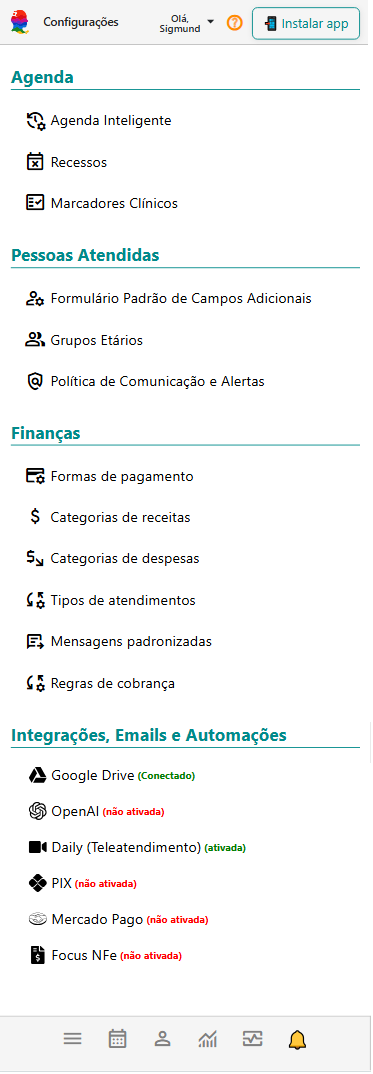
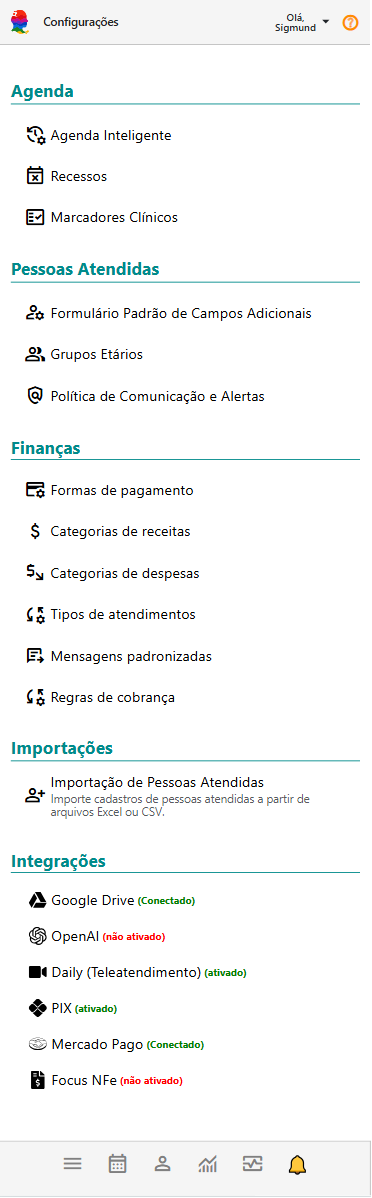
nilson

diff --git a/docs/05_funcionalidades/01-configuracoes/40_importacoes/01_pessoasatendidas.md b/docs/05_funcionalidades/01-configuracoes/40_importacoes/01_pessoasatendidas.md
@@ -1,0 +1,146 @@
+---
+sidebar_position: 1
+---
+
+# Importação de Pessoas Atendidas
+
+A **Importação de Pessoas Atendidas** permite cadastrar no eConsult várias pessoas de uma só vez utilizando informações existentes em uma planilha **Excel ou CSV**.
+
+O recurso é especialmente útil para quem está começando a utilizar o eConsult e já possui seus cadastros organizados em planilhas ou exportados de outro sistema.
+
+Não é necessário que a planilha utilize exatamente os mesmos nomes de campos do eConsult. Durante o processamento, o sistema analisa a estrutura encontrada e procura identificar as informações correspondentes aos campos utilizados no cadastro de pessoas atendidas.
+
+## 1. Selecione o arquivo
+
+Na tela de importação, clique no campo **Arquivo Excel ou CSV** e selecione o arquivo que contém os cadastros que deseja importar.
+
+São aceitos os formatos:
+
+* `.xlsx`
+* `.xls`
+* `.csv`
+
+Após selecionar o arquivo, o eConsult fará uma primeira leitura da planilha e apresentará informações como o nome do arquivo, planilha utilizada, quantidade de registros encontrados e quantidade de colunas identificadas.
+
+![Selecione o arquivo](../../../../static/img/prints/configuracoes/001.png)
+
+### Qual planilha será utilizada?
+
+Caso o arquivo Excel possua várias abas, a importação utiliza a **primeira planilha do arquivo**.
+
+Por isso, antes de iniciar, verifique se os dados que deseja importar estão na primeira aba.
+
+## 2. Confira a prévia dos dados
+
+Depois da leitura do arquivo, o eConsult apresenta uma **prévia dos primeiros registros encontrados**.
+
+Essa etapa permite verificar se a planilha foi lida corretamente antes de continuar.
+
+Os nomes das colunas são apresentados conforme encontrados no arquivo original. Por exemplo, sua planilha pode utilizar nomes como:
+
+`Cliente`, `Nome do Paciente`, `WhatsApp`, `Nascimento`, `CPF`, `Endereço`, entre outros.
+
+Não é necessário renomear essas colunas para os nomes utilizados internamente pelo eConsult.
+
+![Confira a prévia dos dados](../../../../static/img/prints/configuracoes/002.png)
+
+Se o arquivo selecionado não for o correto, clique em **Selecionar outro arquivo**.
+
+## 3. Análise e organização dos dados
+
+Após conferir a prévia, clique em **Continuar**.
+
+O eConsult analisará os registros da planilha e procurará identificar e organizar informações como:
+
+* nome;
+* CPF;
+* e-mail;
+* telefone;
+* celular;
+* data de nascimento;
+* logradouro;
+* número;
+* complemento;
+* bairro;
+* cidade;
+* UF;
+* CEP.
+
+Campos que não existirem ou que não puderem ser identificados permanecerão sem preenchimento.
+
+### Endereços
+
+O endereço pode estar distribuído em várias colunas da planilha ou concentrado em uma única informação.
+
+Quando possível, o eConsult organiza os dados encontrados em campos separados, como **logradouro, número, complemento, bairro, cidade, UF e CEP**.
+
+Uma mesma pessoa também pode possuir **mais de um endereço**.
+
+Se a planilha possuir várias linhas referentes à mesma pessoa por causa de endereços diferentes, o eConsult poderá consolidar essas informações em um único cadastro e relacionar os endereços identificados à mesma pessoa.
+
+## 4. Revise as pessoas identificadas
+
+Depois da análise, será apresentada a relação das **Pessoas Identificadas**.
+
+Essa é uma etapa de conferência. Os dados ainda não foram cadastrados no eConsult.
+
+![Revise as pessoas identificadas](../../../../static/img/prints/configuracoes/003.png)
+
+A tabela apresenta as principais informações encontradas para cada pessoa, como nome, CPF, e-mail, celular, data de nascimento e quantidade de endereços.
+
+Quando houver endereços, você poderá expandir o registro para conferir as informações identificadas.
+
+![Pessoa expandida mostrando os endereços identificados](../../../../static/img/prints/configuracoes/004.png)
+
+Recomendamos revisar os dados, principalmente quando a planilha de origem possuir informações incompletas, colunas com significados pouco claros ou dados preenchidos de formas diferentes.
+
+## 5. Selecione o que deseja importar
+
+Inicialmente, todas as pessoas identificadas ficam **selecionadas para importação**.
+
+Você pode desmarcar qualquer registro que não queira cadastrar.
+
+Também é possível utilizar a caixa de seleção do cabeçalho para selecionar ou desmarcar todos os registros de uma só vez.
+
+Somente as pessoas que estiverem **selecionadas** serão importadas.
+
+## 6. Conclua a importação
+
+Depois de revisar os dados e definir quais pessoas deseja cadastrar, clique em:
+
+**Importar**
+
+O número apresentado no botão corresponde à quantidade de registros atualmente selecionados.
+
+O eConsult enviará somente esses registros para o processo de importação.
+
+![Registros selecionados e botão para concluir a importação](../../../../static/img/prints/configuracoes/003.png)
+
+No término da importação o sistema apresenta informação de quais pessoas atendidas foram importadas e quais foram recusadas.
+
+![Término da importação ](../../../../static/img/prints/configuracoes/005.png)
+
+## Importante
+
+A importação foi desenvolvida para reduzir o trabalho necessário para migrar cadastros existentes para o eConsult, mas a qualidade do resultado depende também das informações disponíveis no arquivo de origem.
+
+O eConsult procura interpretar e organizar os dados encontrados, mas **não cria informações que não estejam presentes na planilha**.
+
+Por isso, revise os registros apresentados antes de confirmar a importação.
+
+Caso alguma informação não seja identificada, você poderá posteriormente complementar o cadastro diretamente no eConsult.
+
+## Dica para uma melhor importação
+
+Embora não seja necessário utilizar um modelo específico de planilha, arquivos bem organizados facilitam a identificação das informações.
+
+Sempre que possível:
+
+* utilize uma linha para cada registro;
+* mantenha títulos claros na primeira linha da planilha;
+* evite células mescladas;
+* mantenha CPF, telefone, e-mail e data de nascimento em colunas próprias;
+* não misture informações de pessoas diferentes na mesma linha;
+* mantenha os dados de endereço organizados em colunas próprias quando disponíveis.
+
+Você **não precisa adaptar sua planilha ao formato do eConsult** antes de tentar a importação. Primeiro envie o arquivo e confira o resultado apresentado pelo sistema.

diff --git a/docs/05_funcionalidades/01-configuracoes/40_importacoes/00_visao-importacoes.md b/docs/05_funcionalidades/01-configuracoes/40_importacoes/00_visao-importacoes.md
@@ -1,0 +1,37 @@
+---
+sidebar_position: 0
+---
+
+# Sobre Configurações para Importações
+
+O grupo **Importações** reúne os recursos para trazer dados de planilhas ou de outros sistemas para o eConsult, facilitando a migração e evitando a necessidade de cadastrar novamente as informações de forma manual.
+
+As importações são realizadas em etapas. Primeiro, o eConsult lê e analisa o arquivo enviado, identifica as informações disponíveis e organiza os dados de acordo com a estrutura utilizada pelo sistema. Antes de qualquer cadastro ser realizado, é apresentada uma **prévia dos dados identificados**, permitindo que você confira o resultado e escolha quais registros deseja importar.
+
+Esse processo permite trabalhar inclusive com planilhas que possuem nomes de colunas e estruturas diferentes das utilizadas pelo eConsult.
+
+### Importação de Pessoas Atendidas
+
+Permite importar cadastros de pessoas atendidas a partir de arquivos **Excel ou CSV**.
+
+Durante o processamento, o eConsult procura identificar informações como **nome, CPF, data de nascimento, e-mail, telefone, celular e endereços**.
+
+Quando uma mesma pessoa aparece em mais de uma linha da planilha, o eConsult pode identificar que os registros pertencem à mesma pessoa e consolidar as informações. Isso é especialmente útil quando a planilha possui **mais de um endereço para a mesma pessoa atendida**.
+
+Após a análise, os cadastros identificados são apresentados para revisão. Você poderá:
+
+* conferir as pessoas identificadas;
+* visualizar os dados que serão cadastrados;
+* consultar os endereços encontrados para cada pessoa;
+* selecionar ou desmarcar individualmente os registros;
+* escolher exatamente quais pessoas serão importadas.
+
+Somente os registros **selecionados por você** serão enviados para a importação.
+
+### Antes de importar
+
+Embora o eConsult analise e organize automaticamente as informações encontradas, recomendamos revisar os dados apresentados antes de confirmar a importação.
+
+Informações ausentes na planilha não são criadas automaticamente. Dependendo da estrutura e da qualidade dos dados de origem, alguns campos podem não ser identificados ou podem permanecer sem preenchimento.
+
+A importação tem como objetivo facilitar a migração de dados, mantendo você no controle sobre quais informações serão efetivamente cadastradas no eConsult.

diff --git a/docs/05_funcionalidades/01-configuracoes/00_visao-configuracoes.md b/docs/05_funcionalidades/01-configuracoes/00_visao-configuracoes.md
@@ -31,7 +31,9 @@ Objetiva facilitar o gerenciamento e a personalização das informações dos pa
 - **Política de Comunicação e Alertas:** Configure o painel de alertas e determine a política de comunicação com as pessoas atendidas.
 
 ## Finanças
+
 Gerencia aspectos financeiros relacionados ao sistema e garantir o controle e a precisão nas transações e relatórios financeiros.
+
 - **Formas de Pagamento:** Configure os métodos de pagamento aceitos por você, como cartões de crédito, transferências bancárias e pagamentos online.
 - **Categorias de Receitas:** Defina e organize categorias para classificar receitas, facilitando a análise financeira e o planejamento.
 - **Categorias de Despesas:** Defina e organize categorias para classificar despesas, facilitando a análise financeira e o planejamento.
@@ -39,9 +41,17 @@ Gerencia aspectos financeiros relacionados ao sistema e garantir o controle e a 
 - **Mensagens Padronizadas:** Crie padrões de mensagens relacionadas a pagamentos e recibos.
 - **Regras de Cobrança:** Permite o cadastro de regras de cobrança para os atendimentos, incluindo descontos, multas, juros por atraso e mora diária.
 
+## Importações
+
+Permite trazer dados de outros sistemas ou planilhas para o eConsult, facilitando a migração e evitando o cadastro manual das informações.
+
+* **Importação de Pessoas Atendidas:** permite importar cadastros de pessoas atendidas a partir de arquivos Excel ou CSV. O eConsult analisa os dados da planilha, identifica e organiza as informações encontradas e permite revisar e selecionar os cadastros antes de concluir a importação.
+
+
 ## Integrações
 
 Integra, de forma facilitada, o eConsult com outras ferramentas e sistemas para melhorar a eficiência e a fluidez dos processos.
+
 - **GoogleDrive:** Configure a integração do eConsult com seu GoogleDrive.
 - **OpenAI:** Configure a integração do eConsult com a sua conta OpenAI.
 - **Daily (Teleatendimento):** Configure a integração do eConsult com a plataforma Daily.co e tenha um sistema de teleatendimento totalmente integrado.
